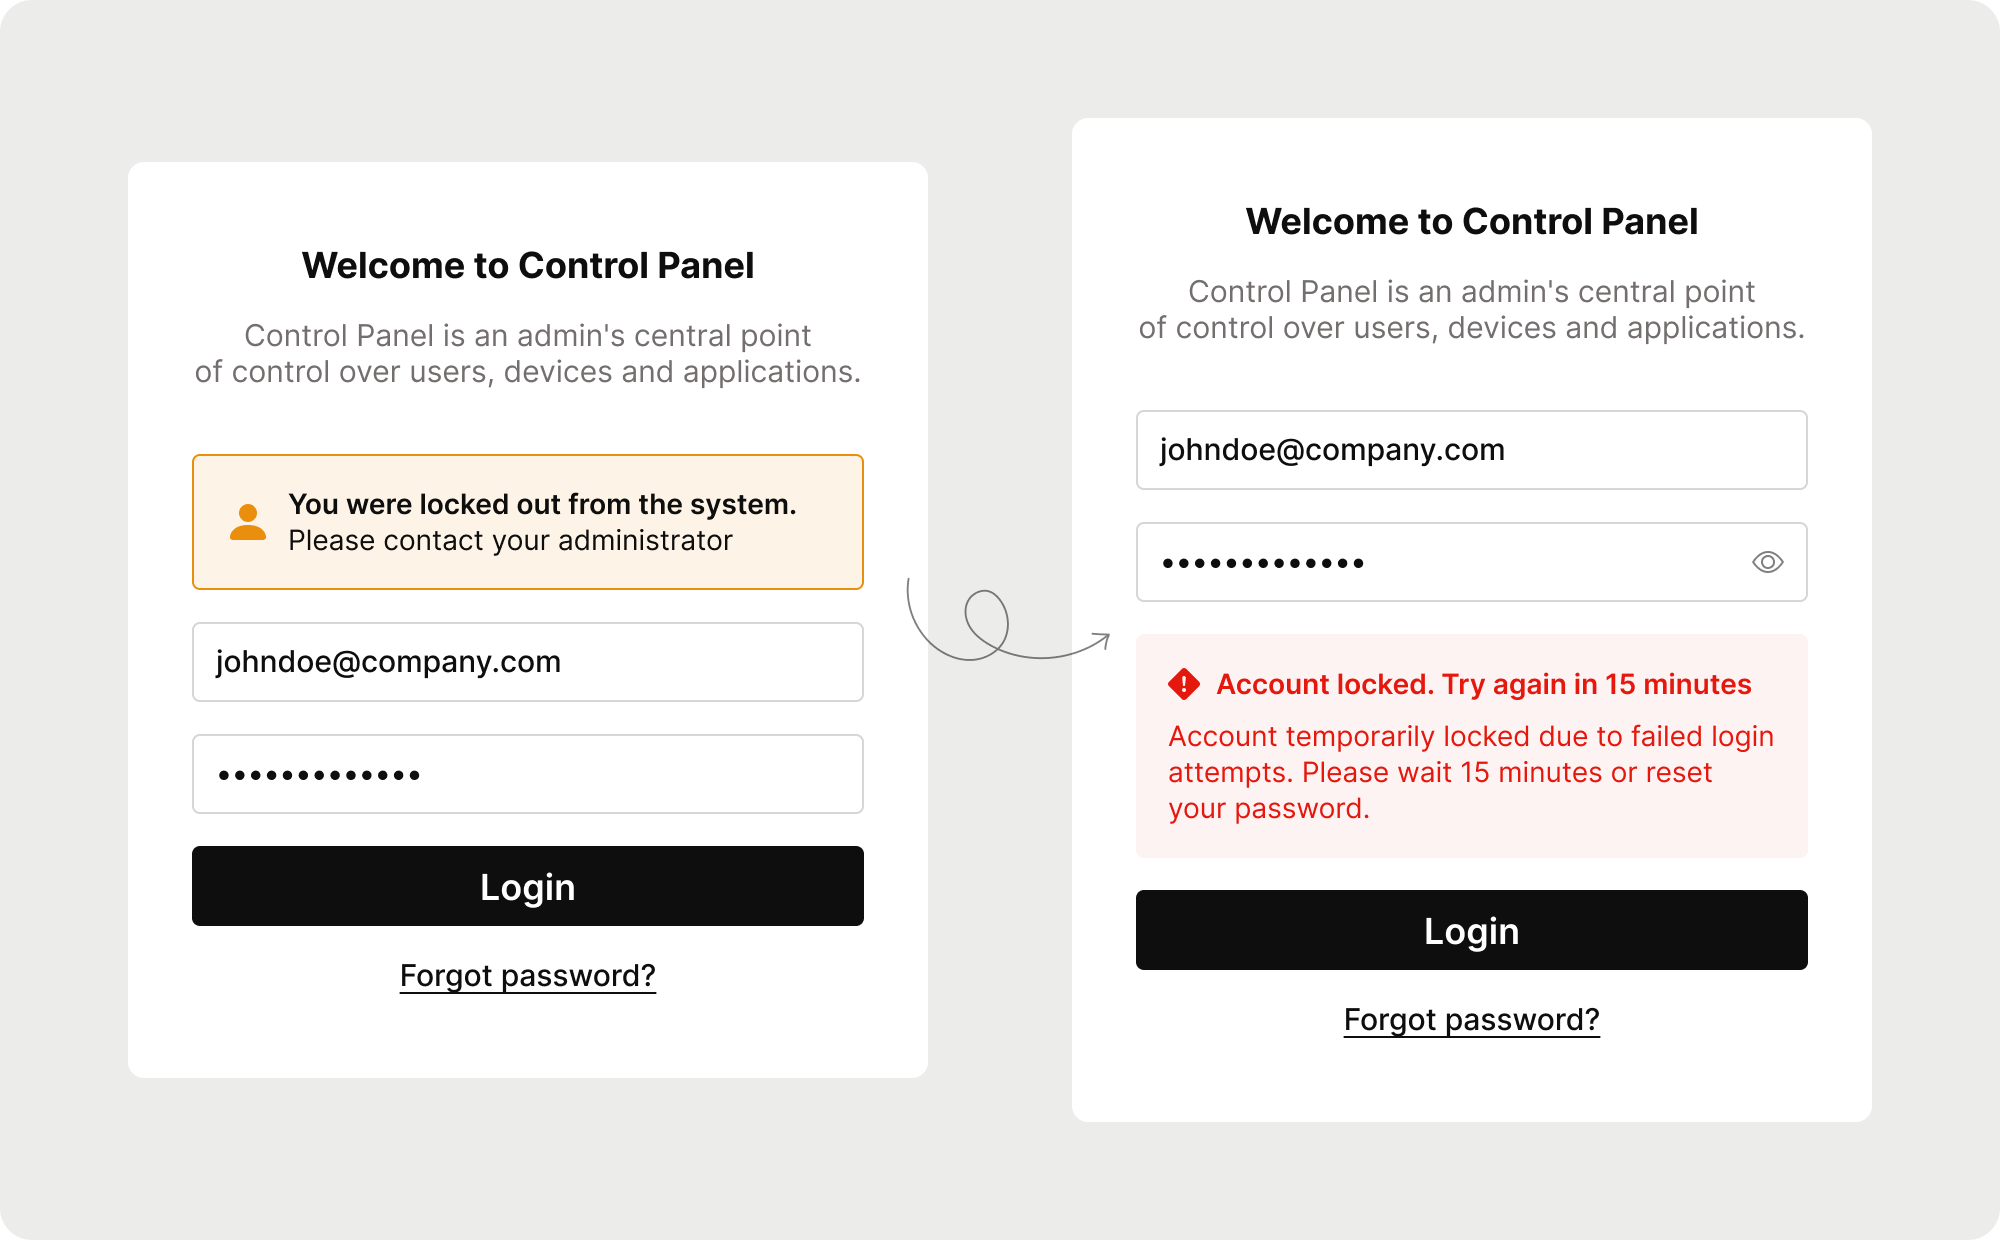
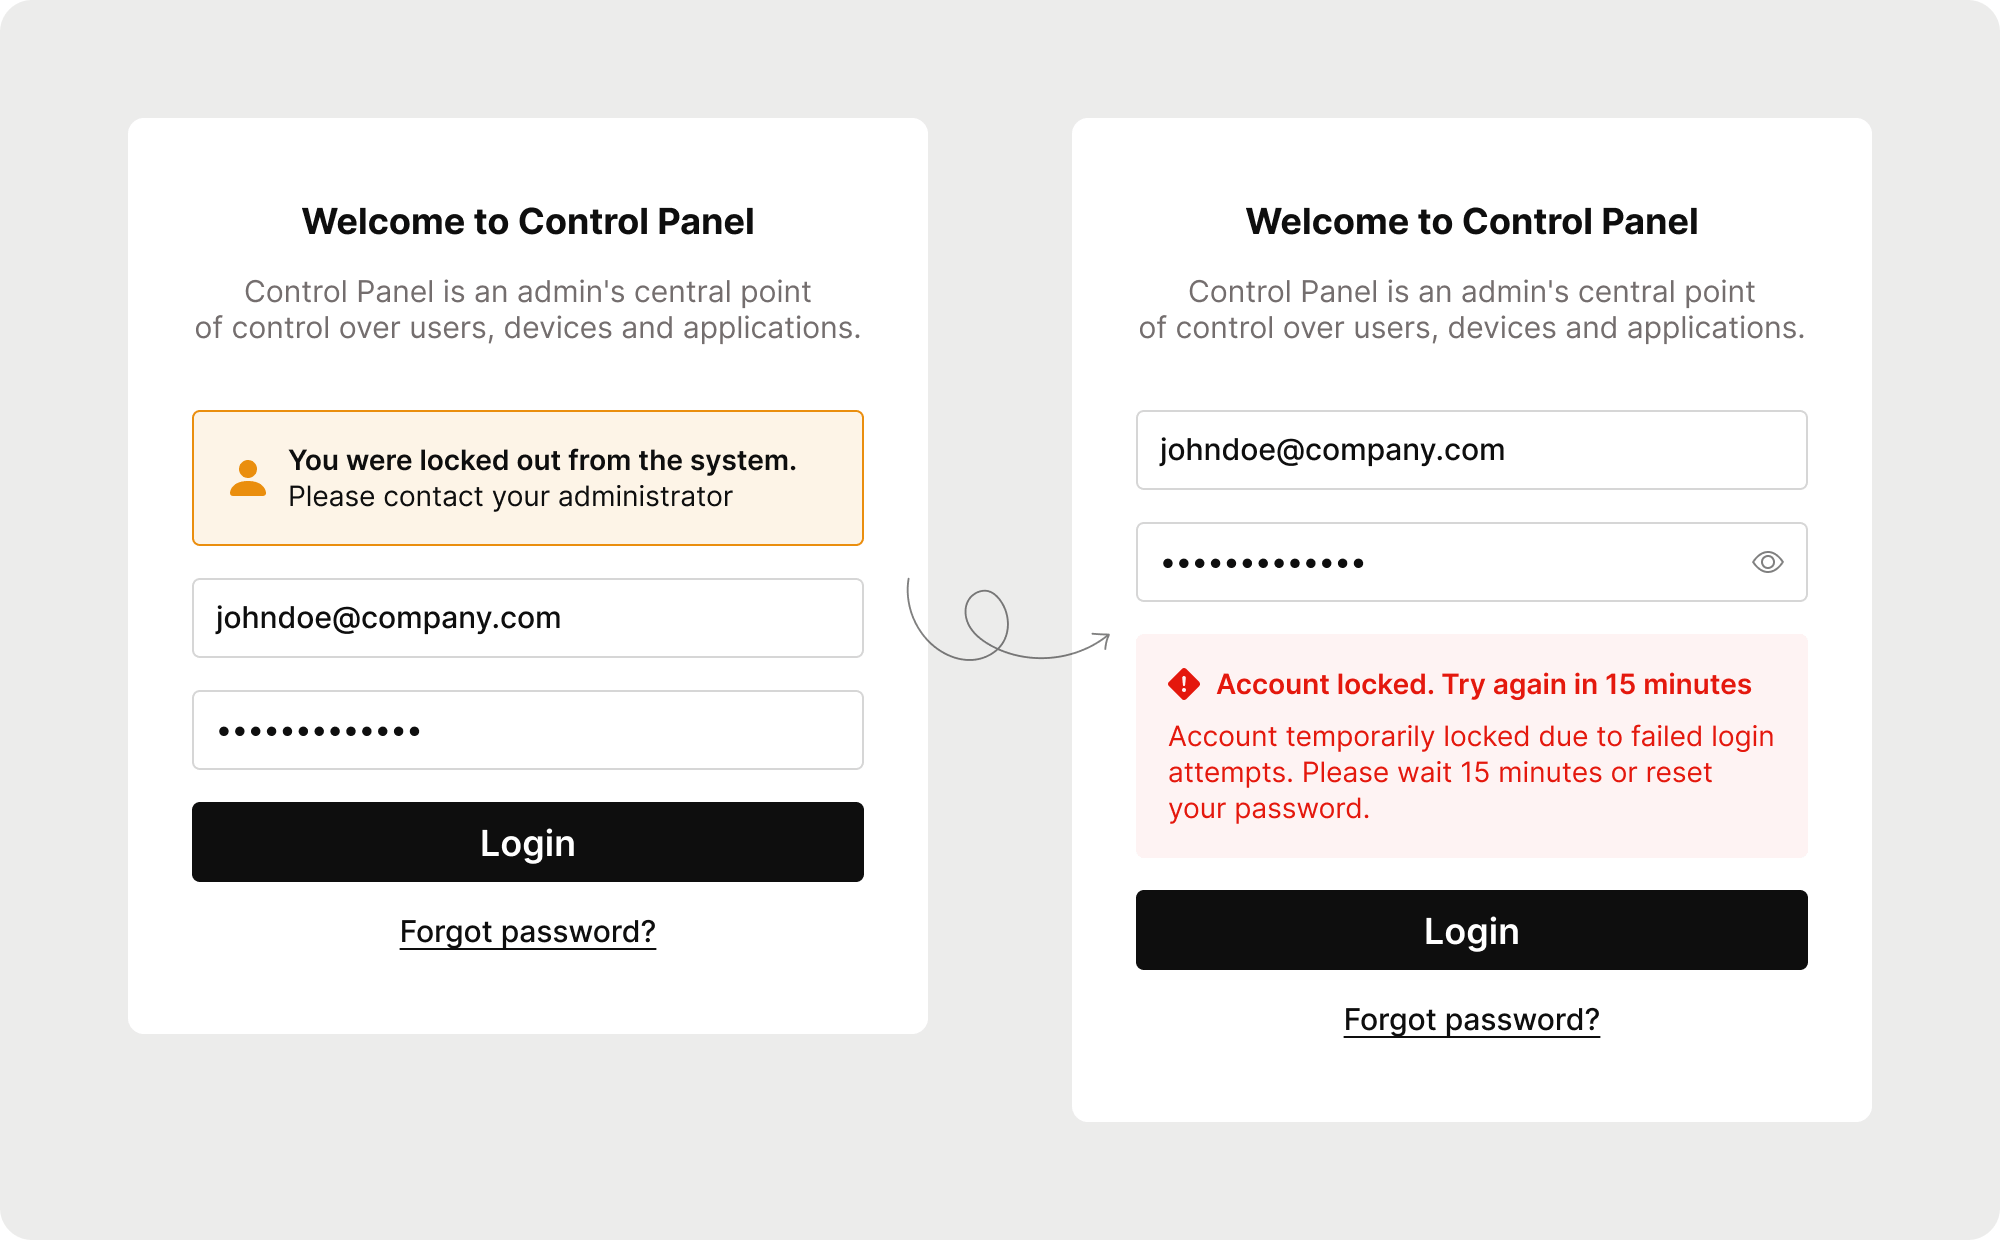
Login issues - updates

Changed region(s): [[0.093, 0.3677, 0.434, 0.7968], [0.093, 0.1532, 0.434, 0.3371]]

diff --git a/case-studies/login-form.html b/case-studies/login-form.html
@@ -23,14 +23,13 @@
 		<h2>The Issues</h2>
 		<p>It&nbsp;turned out the login form was poorly designed:</p>
 		<img src="login-form/login-form-01.png" alt="Issue 1 with initial login form">
-		<img src="login-form/login-form-02.png" alt="Issue 2 with initial login form">
-		<img src="login-form/login-form-03.png" alt="Issue 3 with initial login form">
 
 		<ul>
-			<li>It&nbsp;didn&#39;t warn users about account blocking after several failed attempts.</li>
-			<li>The form didn&rsquo;t notify users when they were blocked; it&nbsp;only notifies users about blocking if&nbsp;they typed the correct password.</li>
-			<li>The blocking lasts for 15&nbsp;minutes, but the form didn&rsquo;t warn users about&nbsp;it.</li>
-			<li>The form didn&rsquo;t allow password resets if&nbsp;the account was blocked.</li>
+			<li>The form didn&rsquo;t show users passwords, so&nbsp;they can&rsquo;t be&nbsp;sure if&nbsp;it&nbsp;is&nbsp;correct or&nbsp;not.</li>
+			<li>It&nbsp;did &#39;t&nbsp;warn users about account locking after several failed attempts.</li>
+			<li>The form didn&rsquo;t notify users when they were locked; it&nbsp;only notifies users about locking if&nbsp;they typed the correct password.</li>
+			<li>The locking lasts for 15&nbsp;minutes, but the form didn&rsquo;t warn users about&nbsp;it.</li>
+			<li>The form didn&rsquo;t allow password resets if&nbsp;the account was locked.</li>		
 		</ul>
 
 		<p>These issues explained the high number of&nbsp;support requests. Moreover, there were error messages in&nbsp;different styles and with unclear wording.</p>

diff --git a/case-studies/style.css b/case-studies/style.css
@@ -27,7 +27,7 @@ body {
   margin: 0 auto;
 }
 
-.content p, ul, h1, h2, h3 {
+.content p, ul, ol, h1, h2, h3 {
   max-width: 48vw;
   margin: 1em auto;
 }
